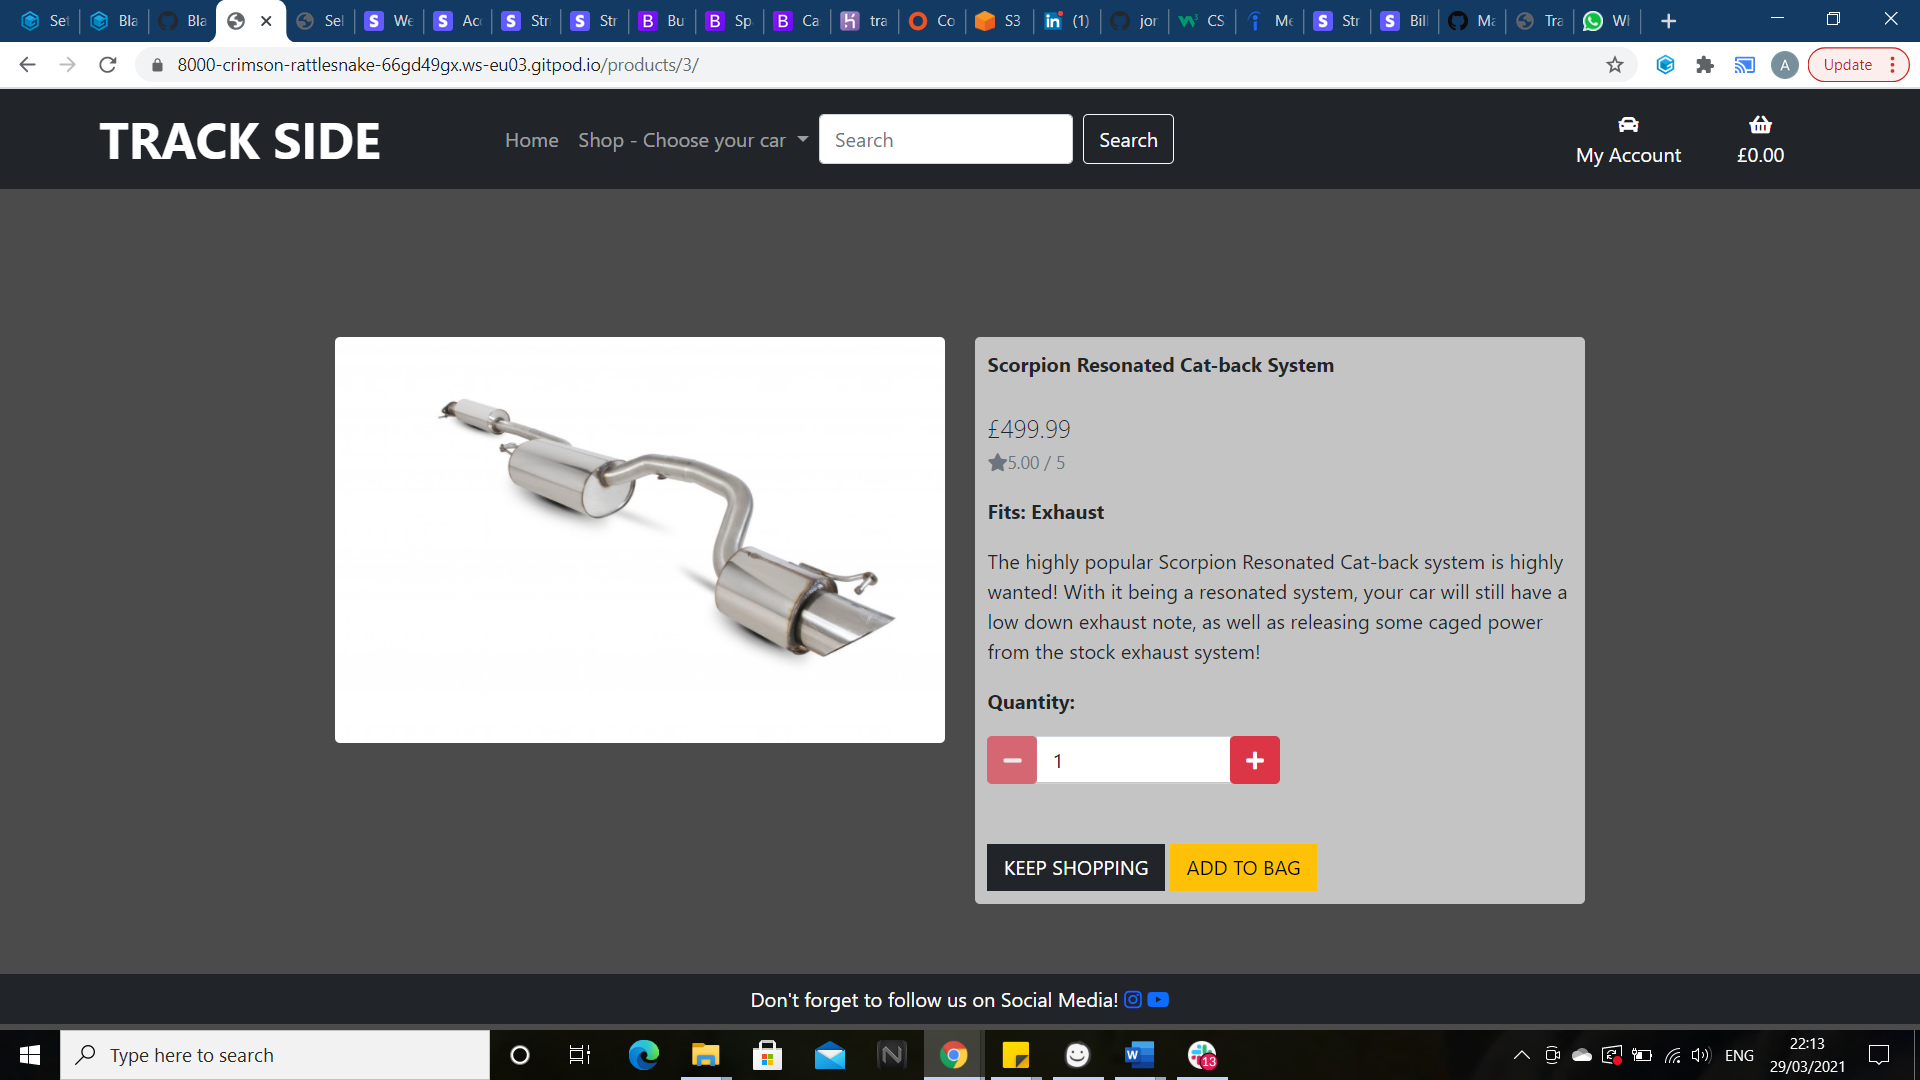
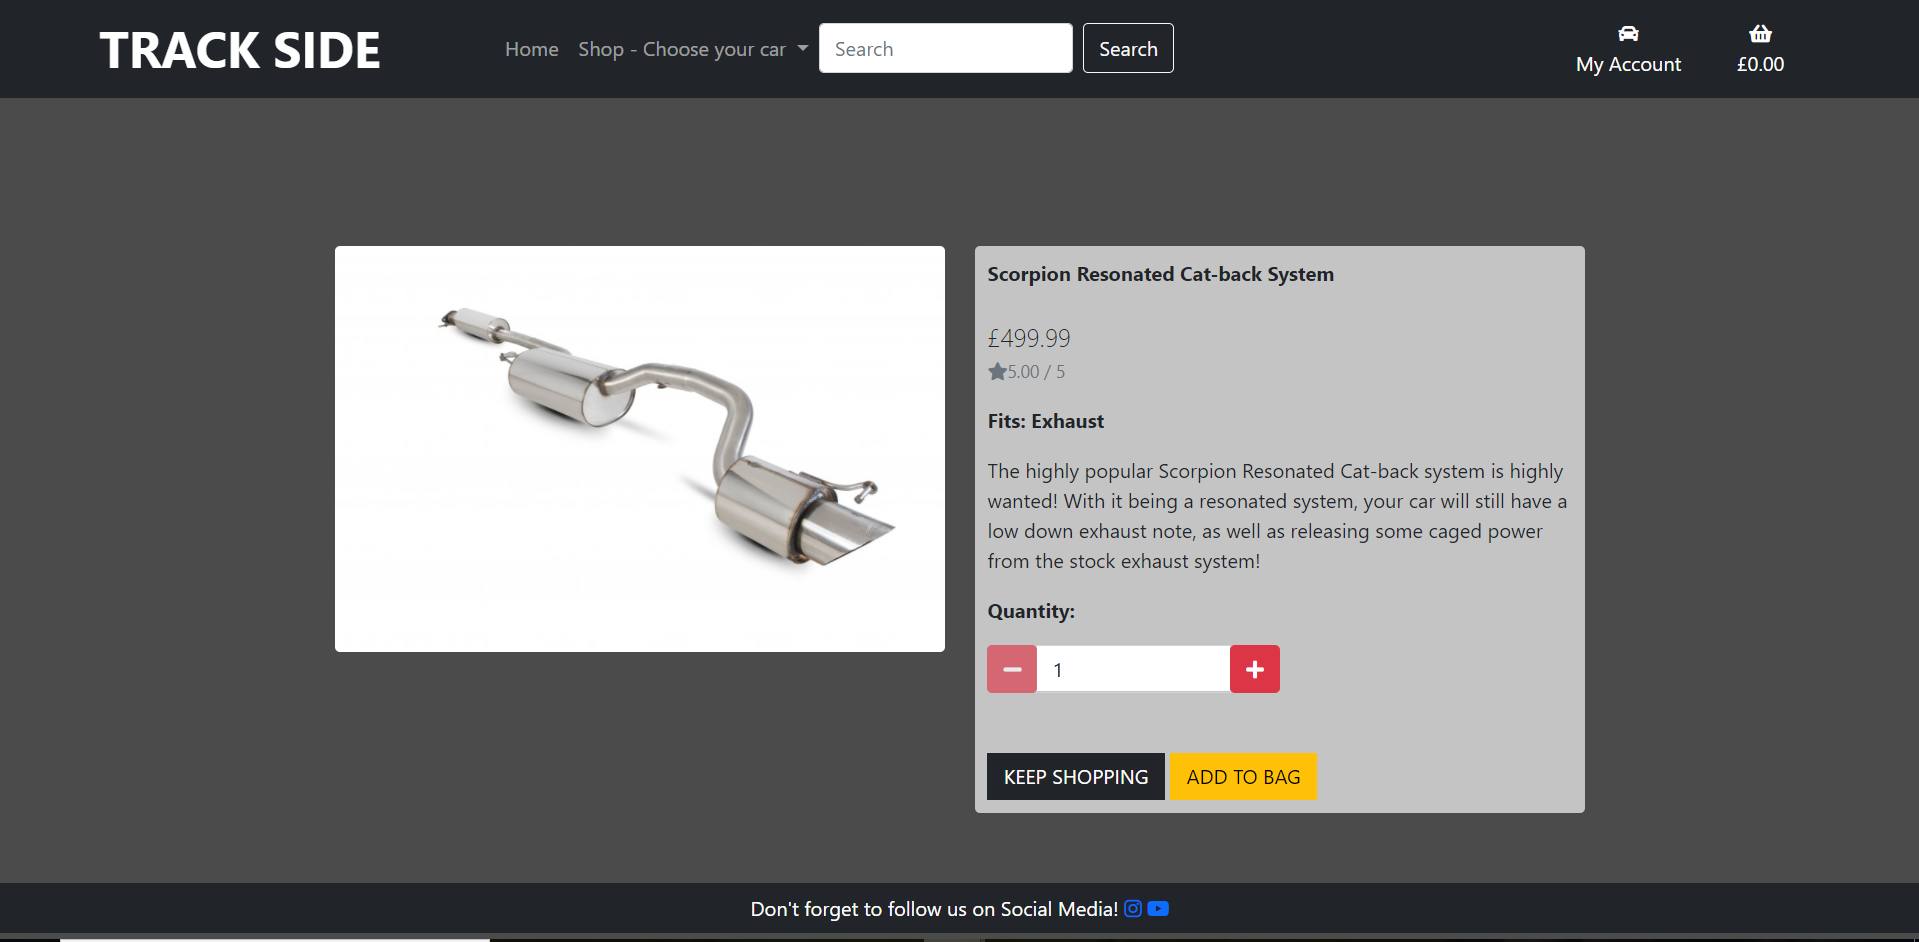
readme update and fixed footer to bottom

diff --git a/templates/base.html b/templates/base.html
@@ -197,7 +197,7 @@
         </script>
         {% endblock %}
     </body>
-    <footer class="container-fluid mt-2">
+    <footer class="container-fluid fixed-bottom mt-2">
         <nav class="row navbar navbar-expand-lg navbar-dark bg-dark text-white text-center">
             <div class="col-12">
             Don't forget to follow us on Social Media!

diff --git a/README.md b/README.md
@@ -45,6 +45,13 @@ This is how I originally intended for my website to look:
 
 In the beginning, I wanted to include various other services within the website, including a forum, in which people could leave reviews on the products, so other users could see, along with renting and buying track cars.
 
+This is how it actually looks: 
+
+<img src="/media/index_page.png" alt="Base page" style="max-width:100%;">
+
+
+After entering the shop, this is how I wanted it to be:
+
 <img src="/media/Shop_Front.png" alt="Base page" style="max-width:100%;">
 
 I also wanted to include picture links, but after toying with the idea, it wouldn't of worked very well on mobile views, so this is why I went for the menu choice below.
@@ -66,5 +73,35 @@ The actual product detail page didn't vary that much from the initial design, th
 
 Actual:
 <img src="/media/product_detail.png" alt="Base page" style="max-width:100%;">
+
+
+### Features 
+Home page - 
+On the home page, it includes a few features that are carried out through out all the other pages, as the header and footer is on all the pages.
+
+- header
+    - Home button (including the TRACK-SIDE logo)
+    - Shop - You can choose the category between different cars to narrow down the specific products
+    - Search bar - enabling the user to quickly search for products that are Specified_car_product_list
+    - My account - allows users to do the following:
+        - Log in / out
+        - register for an account
+        - click onto their own profile
+        ( if a super user)
+        - click on product management and add products to the database
+    - Shopping bag - takes the users to their shopping bag
+    - Messages appear in the top right, notifying the user of different things happening
+<img src="/media/success_message.png" alt="Base page" style="max-width:100%;">
+
+- Body of the index page
+    - The home page itself includes a carousel of track cars (that we supply parts for) on the track, so when the customer arrives on the website straight away, they already know they're in the right place, when looking for performance parts.
+
+- footer
+ - Gives the user the ability to click on the social media accounts and follow them
+
+
+Other features when viewing products
+    - Can click on the menu on home page and take them to products directly listed with the vehicle they're after
+    
 
 
